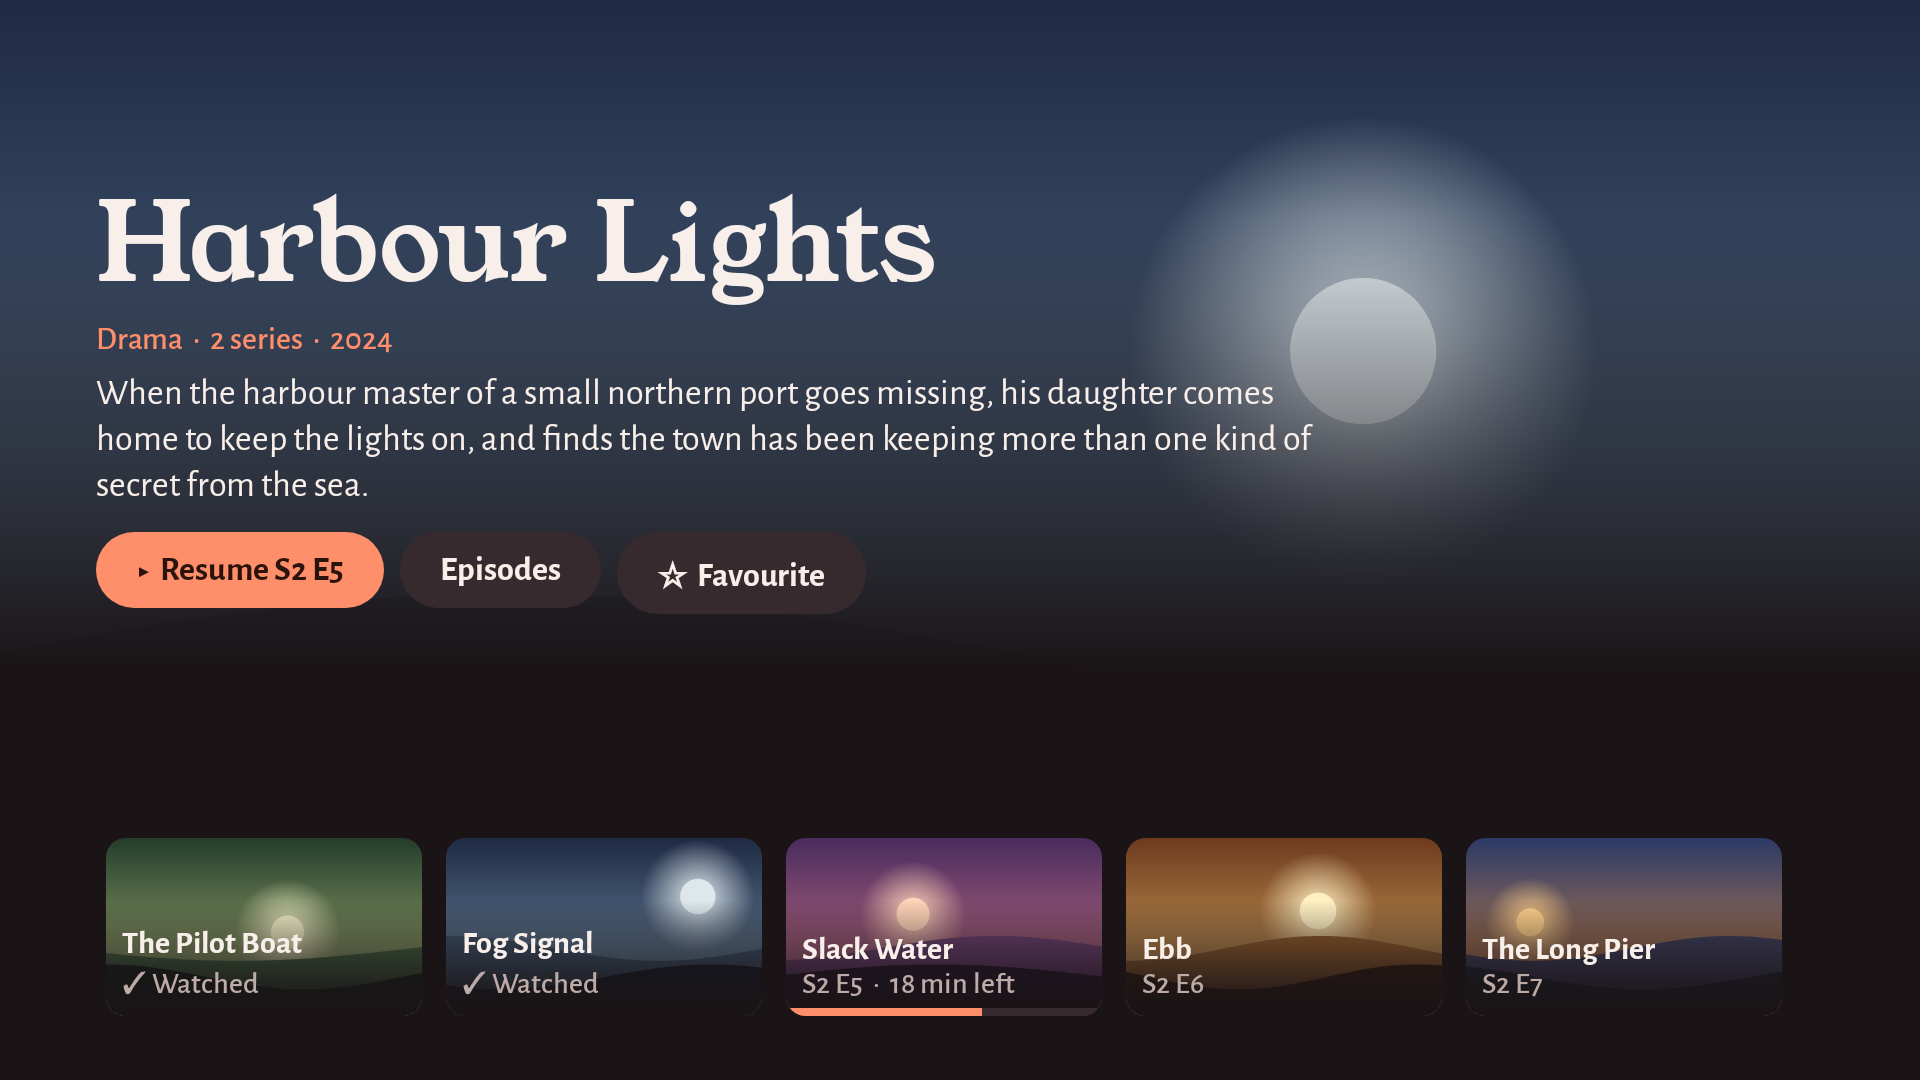
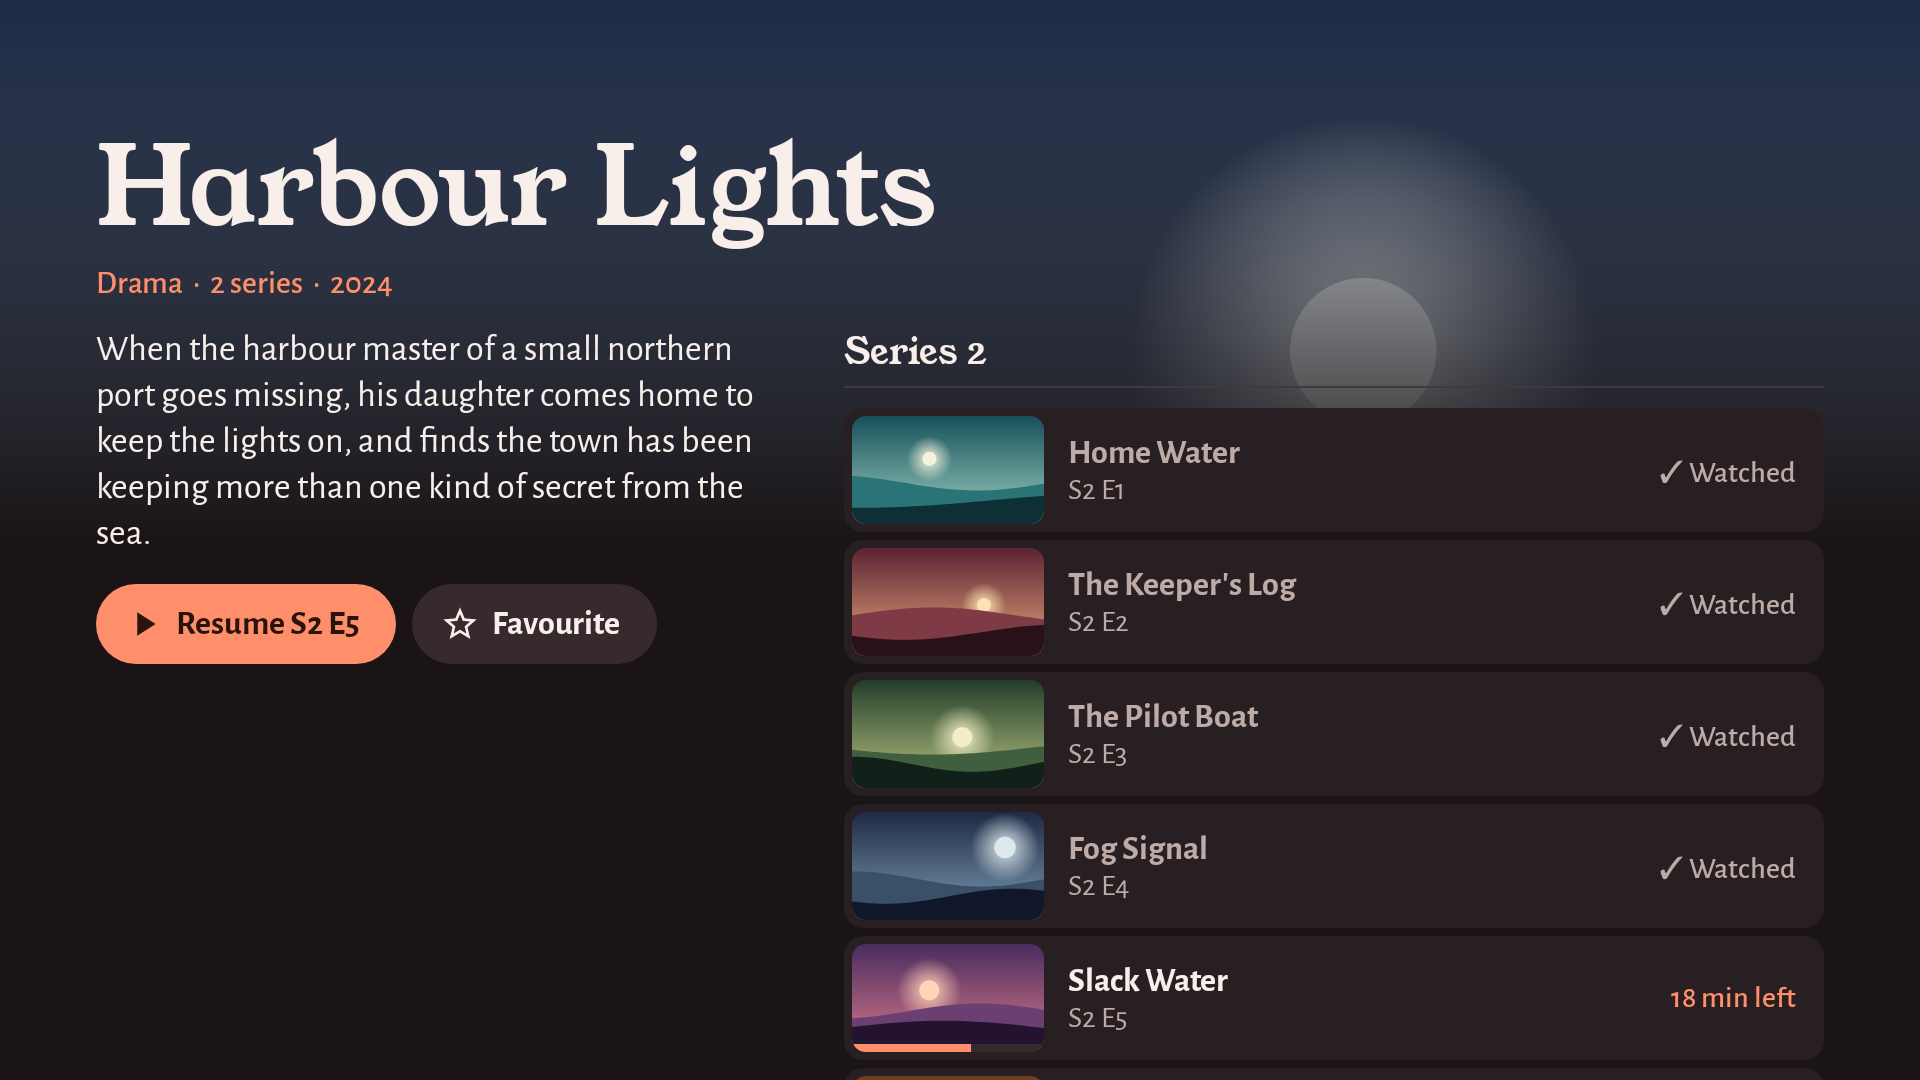
chore(#89): list direction E's episodes vertically with thumbnails
E's hero above two columns, as in Listings: synopsis and buttons on the left,
thumbnail-left episode rows on the right, as on main. Down from the buttons
lands on the episode in progress.

diff --git a/app/src/main/java/app/opentv/ui/directions/DirectionCombined.kt b/app/src/main/java/app/opentv/ui/directions/DirectionCombined.kt
@@ -26,7 +26,9 @@ import androidx.compose.foundation.shape.RoundedCornerShape
 import androidx.compose.foundation.verticalScroll
 import androidx.compose.material.icons.Icons
 import androidx.compose.material.icons.filled.ChevronLeft
+import androidx.compose.material.icons.filled.PlayArrow
 import androidx.compose.material.icons.filled.Search
+import androidx.compose.material.icons.filled.StarBorder
 import androidx.compose.material3.Icon
 import androidx.compose.material3.Text
 import androidx.compose.runtime.Composable
@@ -45,6 +47,7 @@ import androidx.compose.ui.focus.onFocusChanged
 import androidx.compose.ui.graphics.Brush
 import androidx.compose.ui.graphics.Color
 import androidx.compose.ui.graphics.graphicsLayer
+import androidx.compose.ui.graphics.vector.ImageVector
 import androidx.compose.ui.input.key.Key
 import androidx.compose.ui.input.key.KeyEventType
 import androidx.compose.ui.input.key.key
@@ -138,7 +141,8 @@ fun CombinedScreen(screen: Screen) {
         Screen.SHOWS_CATEGORIES -> Browse(movies = false, open = true)
         Screen.MOVIES -> Browse(movies = true, open = false)
         Screen.MOVIES_CATEGORIES -> Browse(movies = true, open = true)
-        Screen.DETAILS -> Details()
+        Screen.DETAILS -> Details(onEpisode = false)
+        Screen.DETAILS_EPISODE -> Details(onEpisode = true)
     }
 }
 
@@ -636,41 +640,69 @@ private fun PosterTile(
     ) { focused -> ArtCard(item, focused, COVER) }
 }
 
+private val seriesEpisodes =
+    listOf(
+        Item("Home Water", "S2 E1", 36, Watch.Watched),
+        Item("The Keeper's Log", "S2 E2", 37, Watch.Watched),
+    ) + ProtoData.episodes + Item("Lights Out", "S2 E8", 38, Watch.Unwatched)
+
+/**
+ * E's hero above Listings' two columns, with the real app's thumbnail-left rows. Stacking the rows
+ * under the hero, as main does, would show about one and a half episodes before scrolling.
+ */
 @Composable
-private fun Details() {
+private fun Details(onEpisode: Boolean) {
+    val current = remember { FocusRequester() }
     Box(Modifier.fillMaxSize().background(Bg)) {
         Art(11, Modifier.fillMaxSize())
         Box(
             Modifier.fillMaxSize().background(
-                Brush.verticalGradient(0.2f to Bg.copy(alpha = 0f), 0.62f to Bg),
+                Brush.verticalGradient(0.05f to Bg.copy(alpha = 0f), 0.5f to Bg),
             ),
         )
-        Column(Modifier.fillMaxSize().padding(start = 48.dp, end = 48.dp, top = 84.dp, bottom = 27.dp)) {
+        Column(Modifier.fillMaxSize().padding(start = 48.dp, end = 48.dp, top = 56.dp)) {
             OneLine(ProtoData.detailTitle, Ink, 54, Title)
             OneLine(ProtoData.detailMeta, Coral, 16, Body, weight = FontWeight.Medium)
-            Spacer(Modifier.height(6.dp))
-            Text(
-                ProtoData.detailBlurb,
-                color = Ink,
-                fontFamily = Body,
-                fontSize = 18.sp,
-                lineHeight = 23.sp,
-                maxLines = 3,
-                modifier = Modifier.width(620.dp),
-            )
             Spacer(Modifier.height(12.dp))
-            Row(horizontalArrangement = Arrangement.spacedBy(8.dp)) {
-                Action("▶  Resume S2 E5", true)
-                Action("Episodes", false)
-                Action("☆  Favourite", false)
-            }
-            Spacer(Modifier.weight(1f))
-            Row(
-                Modifier.padding(horizontal = 5.dp, vertical = 5.dp),
-                horizontalArrangement = Arrangement.spacedBy(12.dp),
-            ) {
-                ProtoData.episodes.forEach { episode ->
-                    Tile(Modifier.width(158.dp)) { focused -> ArtCard(episode, focused, STILL) }
+            Row(Modifier.fillMaxSize()) {
+                Column(Modifier.width(350.dp)) {
+                    Text(
+                        ProtoData.detailBlurb,
+                        color = Ink,
+                        fontFamily = Body,
+                        fontSize = 18.sp,
+                        lineHeight = 23.sp,
+                        maxLines = 6,
+                        overflow = TextOverflow.Ellipsis,
+                    )
+                    Spacer(Modifier.height(14.dp))
+                    Row(horizontalArrangement = Arrangement.spacedBy(8.dp)) {
+                        Action(Icons.Filled.PlayArrow, "Resume S2 E5", !onEpisode, current)
+                        Action(Icons.Filled.StarBorder, "Favourite", false, current)
+                    }
+                }
+                Spacer(Modifier.width(24.dp))
+                // A season's list stays in reach: Down from either button lands on the episode in progress.
+                Column(
+                    Modifier
+                        .weight(1f)
+                        .fillMaxHeight()
+                        .verticalScroll(rememberScrollState())
+                        .padding(bottom = 27.dp),
+                    verticalArrangement = Arrangement.spacedBy(4.dp),
+                ) {
+                    OneLine("Series 2", Ink, 18, Title)
+                    Box(Modifier.fillMaxWidth().height(1.dp).background(Rule))
+                    Spacer(Modifier.height(2.dp))
+                    seriesEpisodes.forEach { episode ->
+                        val inProgress = episode.watch is Watch.InProgress
+                        Tile(
+                            Modifier
+                                .fillMaxWidth()
+                                .then(if (inProgress) Modifier.focusRequester(current) else Modifier),
+                            initial = onEpisode && inProgress,
+                        ) { focused -> EpisodeRow(episode, focused) }
+                    }
                 }
             }
         }
@@ -678,14 +710,72 @@ private fun Details() {
 }
 
 @Composable
-private fun Action(text: String, primary: Boolean) {
-    Tile(initial = primary) { focused ->
-        Box(
+private fun EpisodeRow(episode: Item, focused: Boolean) {
+    Row(
+        Modifier
+            .fillMaxWidth()
+            .height(62.dp)
+            .clip(Card)
+            .background(if (focused) Coral else Panel)
+            .padding(horizontal = 4.dp),
+        verticalAlignment = Alignment.CenterVertically,
+    ) {
+        Box(Modifier.size(width = 96.dp, height = 54.dp).clip(RoundedCornerShape(7.dp))) {
+            if (episode.seed != null) Art(episode.seed, Modifier.fillMaxSize())
+            val watch = episode.watch
+            if (watch is Watch.InProgress) {
+                ProgressLine(watch.fraction, Raised, if (focused) Ink else Coral, Modifier.align(Alignment.BottomCenter), 4.dp)
+            }
+        }
+        Spacer(Modifier.width(12.dp))
+        Column(Modifier.weight(1f)) {
+            // Watched episodes step back by colour rather than alpha, which would force a layer (#85).
+            OneLine(
+                episode.title,
+                when {
+                    focused -> OnCoral
+                    episode.watch == Watch.Watched -> Soft
+                    else -> Ink
+                },
+                17,
+                Body,
+                weight = FontWeight.Bold,
+            )
+            OneLine(episode.sub, if (focused) OnCoral else Soft, 15, Body)
+        }
+        val status = when (val watch = episode.watch) {
+            Watch.Watched -> "✓ Watched"
+            is Watch.InProgress -> watch.left
+            else -> ""
+        }
+        OneLine(
+            status,
+            when {
+                focused -> OnCoral
+                episode.watch == Watch.Watched -> Soft
+                else -> Coral
+            },
+            15,
+            Body,
+            Modifier.padding(start = 8.dp, end = 10.dp),
+            FontWeight.Medium,
+        )
+    }
+}
+
+@Composable
+private fun Action(icon: ImageVector, text: String, primary: Boolean, down: FocusRequester) {
+    Tile(Modifier.focusProperties { this.down = down }, initial = primary) { focused ->
+        Row(
             Modifier
+                .height(40.dp)
                 .clip(RoundedCornerShape(50))
                 .background(if (focused) Coral else Raised)
-                .padding(horizontal = 20.dp, vertical = 9.dp),
+                .padding(start = 14.dp, end = 18.dp),
+            verticalAlignment = Alignment.CenterVertically,
         ) {
+            Icon(icon, contentDescription = null, tint = if (focused) OnCoral else Ink, modifier = Modifier.size(20.dp))
+            Spacer(Modifier.width(6.dp))
             OneLine(text, if (focused) OnCoral else Ink, 17, Body, weight = FontWeight.Bold)
         }
     }

diff --git a/prototype-screenshots/89-directions/index.html b/prototype-screenshots/89-directions/index.html
@@ -146,13 +146,14 @@ const directions = [
   ["b_hearth", "B: Hearth", "Warmest. Amber and brown, a serif with character, the largest artwork, and an amber glow."],
   ["c_listings", "C: Listings", "Type-led, like a printed listings page. Oxblood-black, a slab serif, and a cream marker."],
   ["d_picture_house", "D: Picture House", "Artwork first. Plum-charcoal, a round sans, text on the art, and a coral ring."],
-  ["e_combined", "E: Combined", "Your combination: Picture House's colours, rounded cards, pill buttons and Shows and details layouts; Hearth's type and larger first card; Listings' square guide and Live Preview layout; and a categories sidebar. Cover art is portrait, and anything showing progress is landscape."],
+  ["e_combined", "E: Combined", "Your combination: Picture House's colours, rounded cards, pill buttons and Shows and details layouts; Hearth's type and larger first card; Listings' square guide and Live Preview layout; an episode list with thumbnails; and a categories sidebar. Cover art is portrait, and anything showing progress is landscape."],
 ];
 const combinedOnly = [
   ["guide_categories", "Live guide with categories open"],
   ["shows_categories", "Shows with categories open, on a category's grid"],
   ["movies", "Movies"],
   ["movies_categories", "Movies with categories open, on a category's grid"],
+  ["details_episode", "Details page with the highlight on an episode"],
 ];
 const screens = [
   ["home_preview", "Home with the Live Preview"],

diff --git a/app/src/test/java/app/opentv/DirectionsFocusTest.kt b/app/src/test/java/app/opentv/DirectionsFocusTest.kt
@@ -55,6 +55,16 @@ class DirectionsFocusTest {
     }
 
     @Test
+    fun `details open on Resume, and one Down reaches the episode in progress`() {
+        compose.setTvContent { DirectionScreen(Direction.COMBINED, Screen.DETAILS) }
+        compose.waitForIdle()
+        focusedHolds("Resume S2 E5")
+        compose.onNode(isFocused()).performKeyInput { pressKey(Key.DirectionDown) }
+        compose.waitForIdle()
+        focusedHolds("Slack Water")
+    }
+
+    @Test
     fun `Left from the guide's first column opens categories on the current one`() {
         compose.setTvContent { DirectionScreen(Direction.COMBINED, Screen.GUIDE) }
         compose.waitForIdle()

diff --git a/app/src/main/java/app/opentv/ui/directions/DirectionsHost.kt b/app/src/main/java/app/opentv/ui/directions/DirectionsHost.kt
@@ -19,6 +19,7 @@ enum class Direction(val key: String, val label: String) {
 fun DirectionScreen(direction: Direction, screen: Screen) {
     val base = when (screen) {
         Screen.GUIDE_CATEGORIES -> Screen.GUIDE
+        Screen.DETAILS_EPISODE -> Screen.DETAILS
         Screen.SHOWS_CATEGORIES, Screen.MOVIES, Screen.MOVIES_CATEGORIES -> Screen.SHOWS
         else -> screen
     }

diff --git a/app/src/main/java/app/opentv/ui/directions/DirectionsCommon.kt b/app/src/main/java/app/opentv/ui/directions/DirectionsCommon.kt
@@ -84,6 +84,7 @@ enum class Screen {
     SHOWS_CATEGORIES,
     MOVIES,
     MOVIES_CATEGORIES,
+    DETAILS_EPISODE,
 }
 
 /** What a highlight's OK does on the emulator build. Screenshots never press it. */
